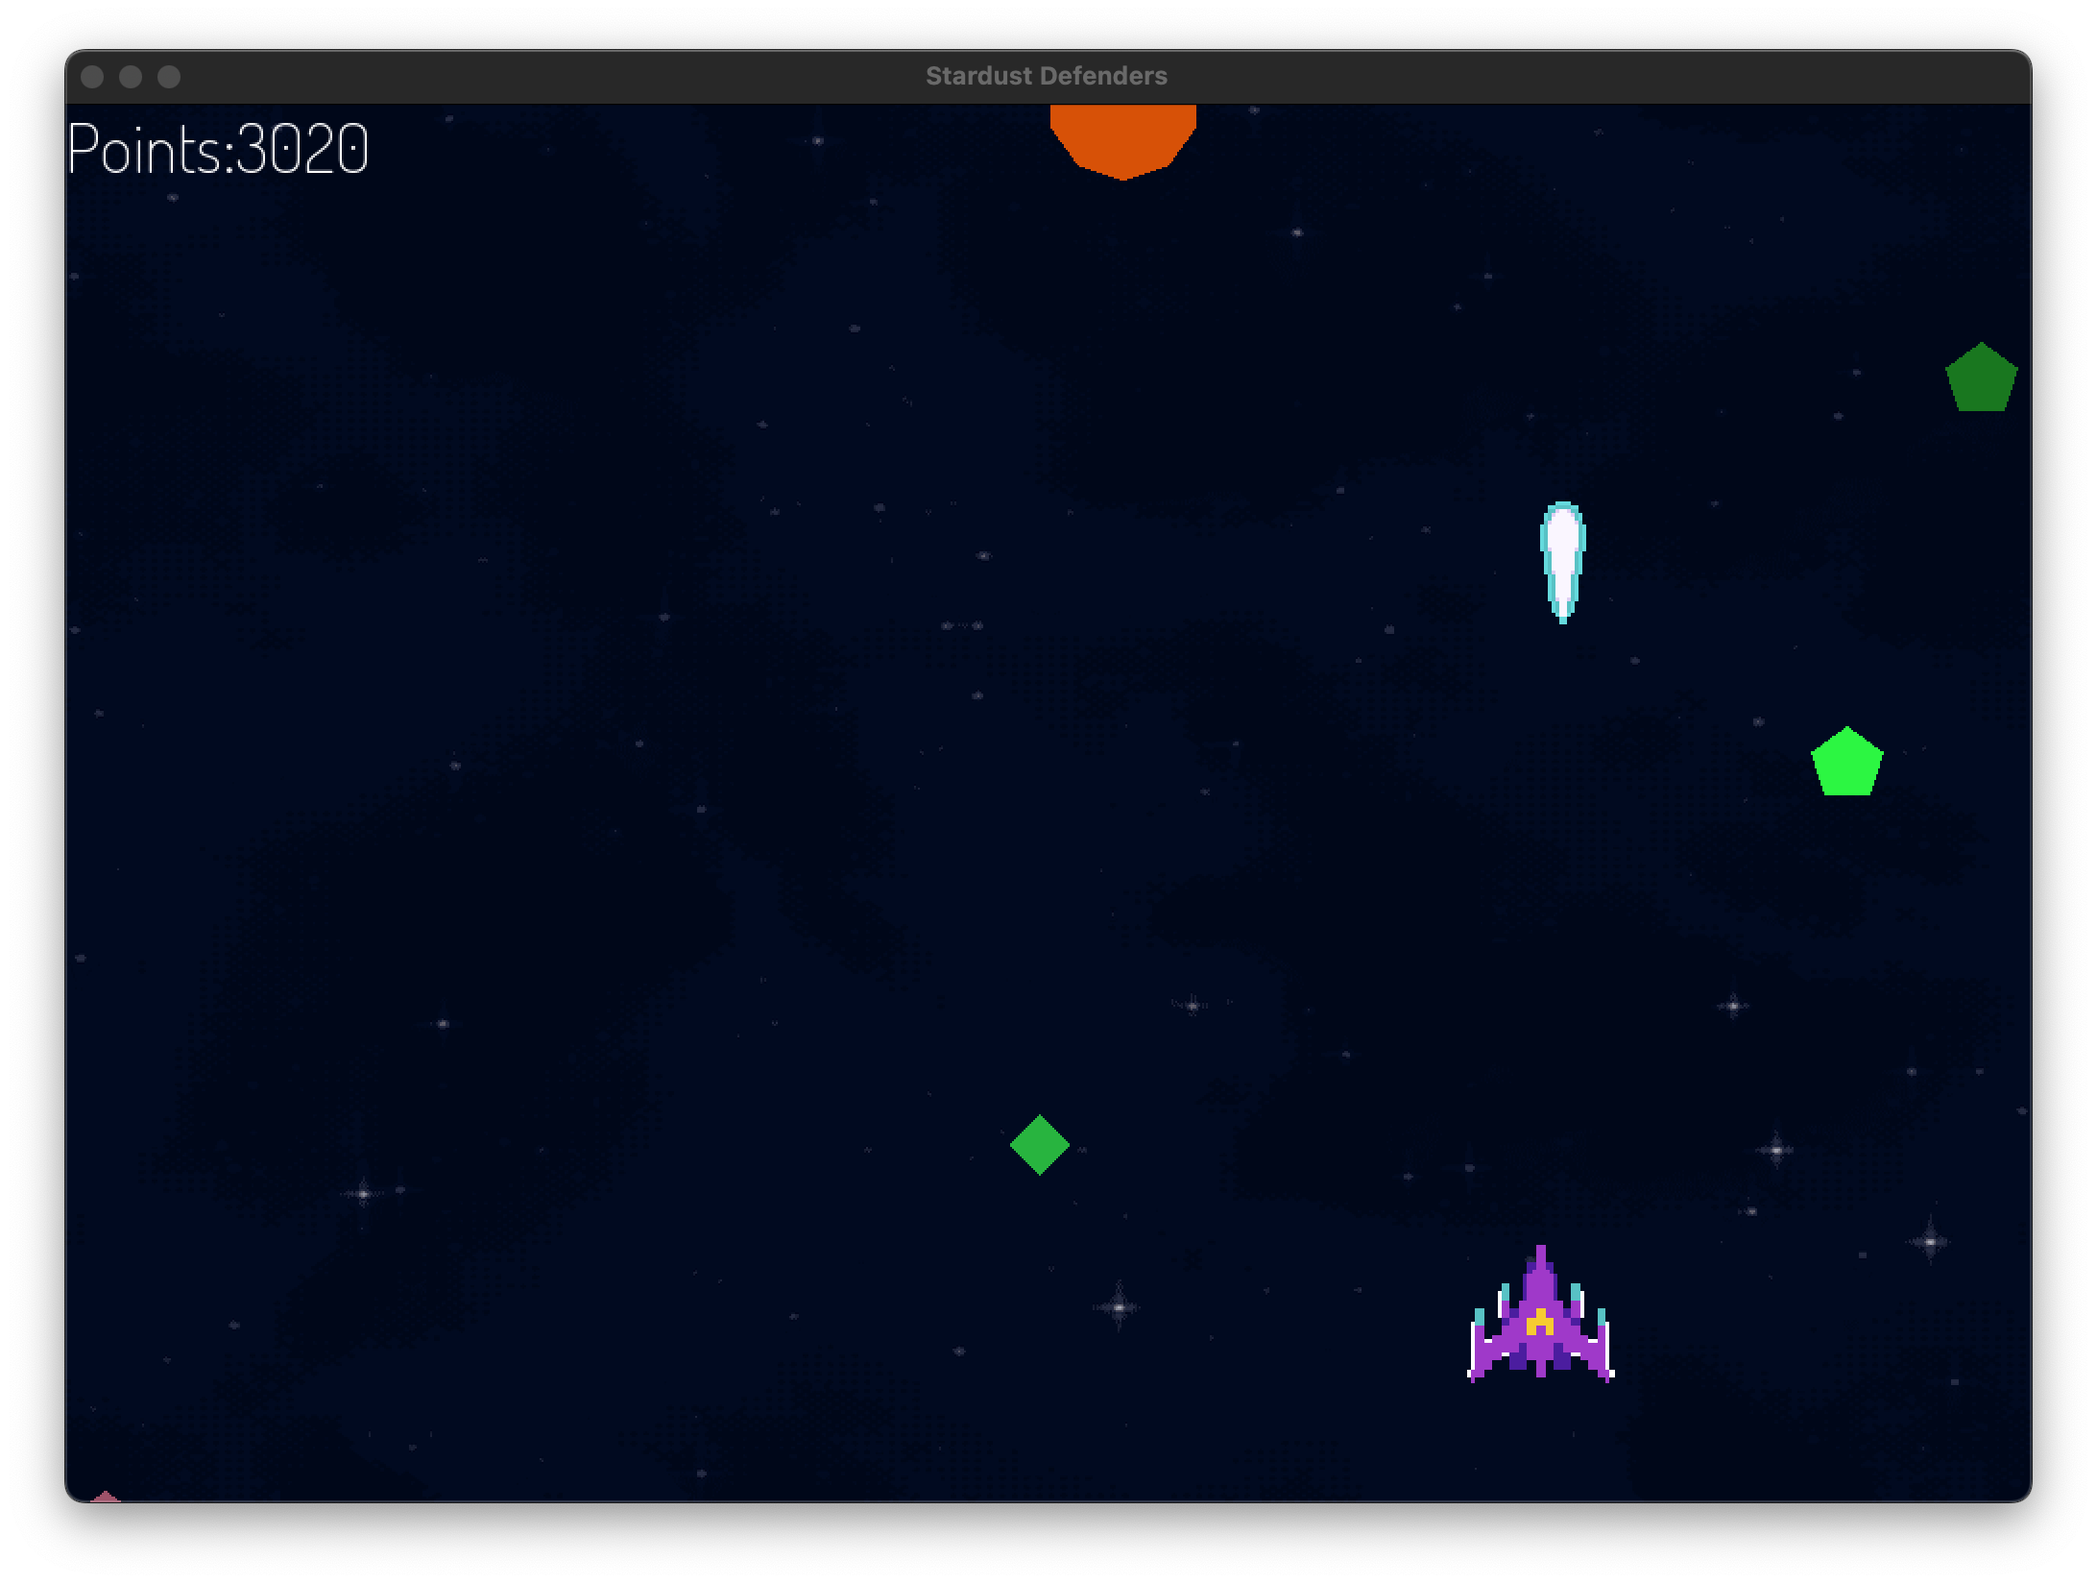
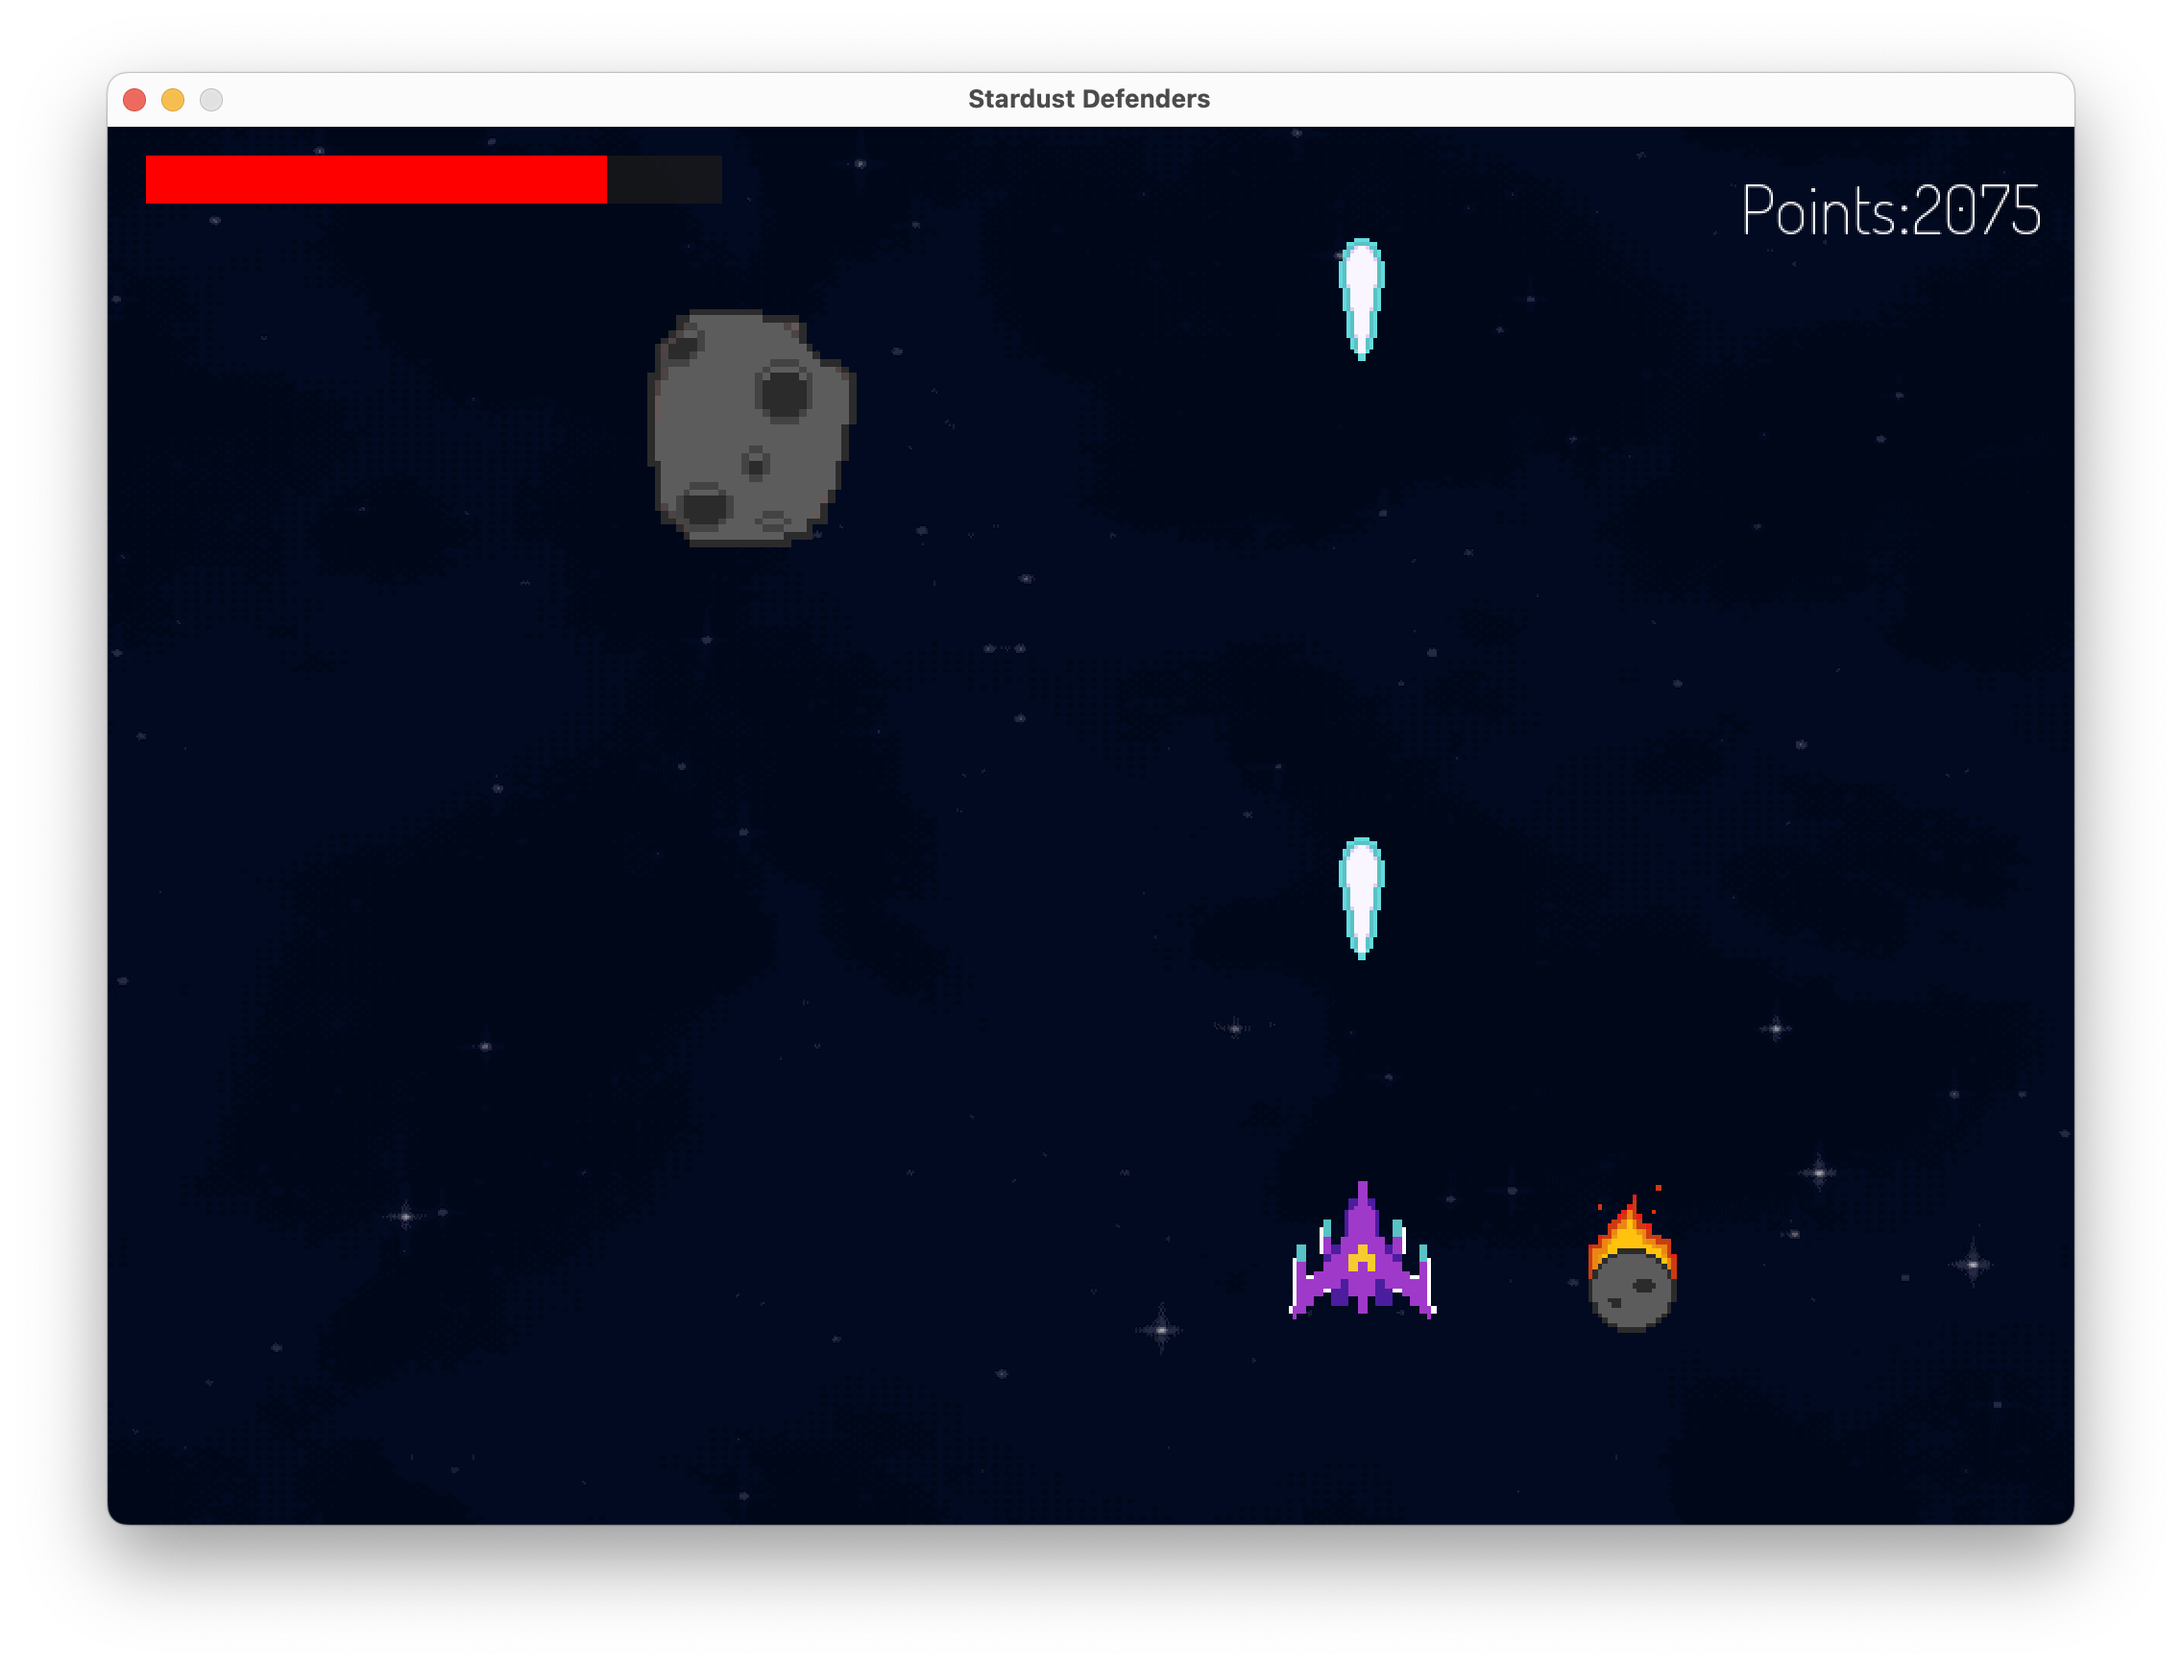
Update README.md and gameplay.png

diff --git a/README.md b/README.md
@@ -10,18 +10,51 @@ Entity (Abstract Base Class)
 ├── Player
 ├── Projectile (Abstract)
 │   ├── PlayerBullet
-│   └── BossBullet
+│   └── BossBullet //TODO
 └── Enemy (Abstract)
     ├── BasicEnemy
     ├── FastEnemy
     ├── TankEnemy
-    └── Boss
+    └── Boss //TODO
 ```
+```
+Manager Classes
+├── WindowManager
+├── ResourceManager
+├── GuiManager
+├── PlayerManager
+├── EnemyManager
+├── BulletManager
+├── CombatManager
+├── InputManager
+└── WorldManager
+
+```
+
+## Manager Classes
+
+- **WindowManager**: Manages the game window and window-related events.
+
+- **ResourceManager**: Loads, stores, and provides access to textures and fonts.
+
+- **GuiManager**: Handles all GUI elements (score, health bar, game over screen).
+
+- **PlayerManager**: Manages the player entity, movement, and world collision.
+
+- **EnemyManager**: Spawns, updates, and removes enemies.
+
+- **BulletManager**: Creates, updates, and deletes bullets.
+
+- **CombatManager**: Handles all combat logic (player-enemy and bullet-enemy collisions).
+
+- **InputManager**: Processes player input for movement, shooting.
+
+- **WorldManager**: Manages the world background and global game variables (score, etc.).
 
 
 ## Features
 
-- **Player Controls**: Control your spaceship using `W`,`A`,`S`,`D` keys
+- **Player Controls**: Control your spaceship using `W`, `A`, `S`, `D` keys
 - **Combat System**: 
   - Shoot bullets using the `spacebar`
   - Enemy collision detection
@@ -32,6 +65,8 @@ Entity (Abstract Base Class)
   - Collision detection with player and bullets
 - **GUI Elements**:
   - Score tracking
+  - Health bar
+  - Game over screen
 
 ## Controls
 
